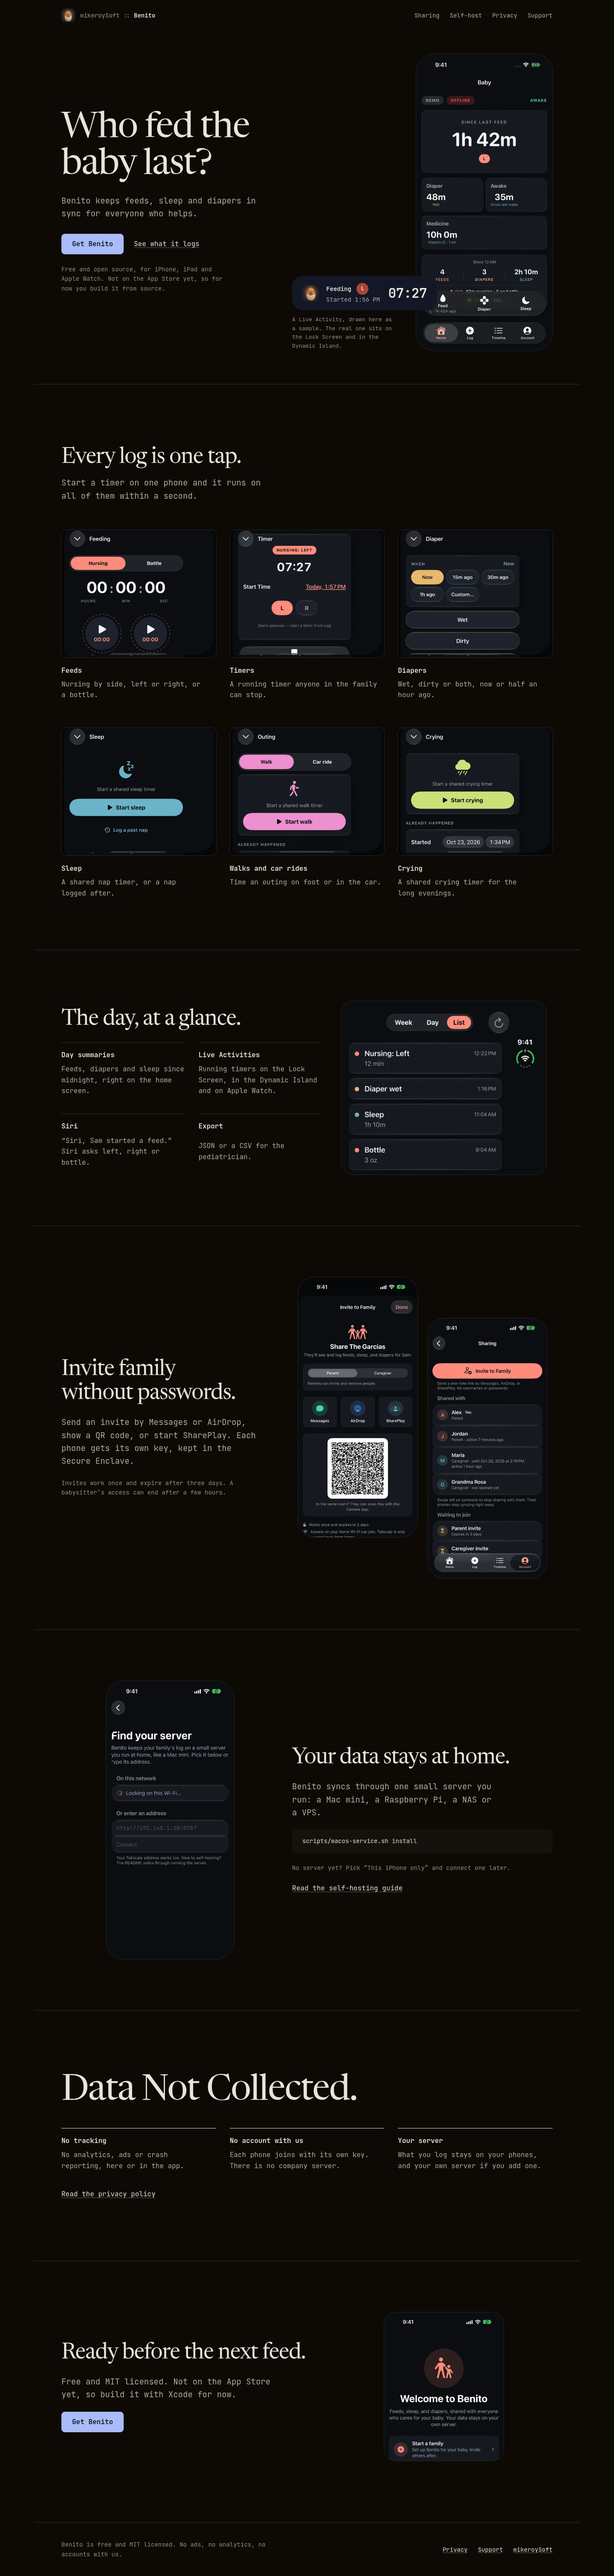
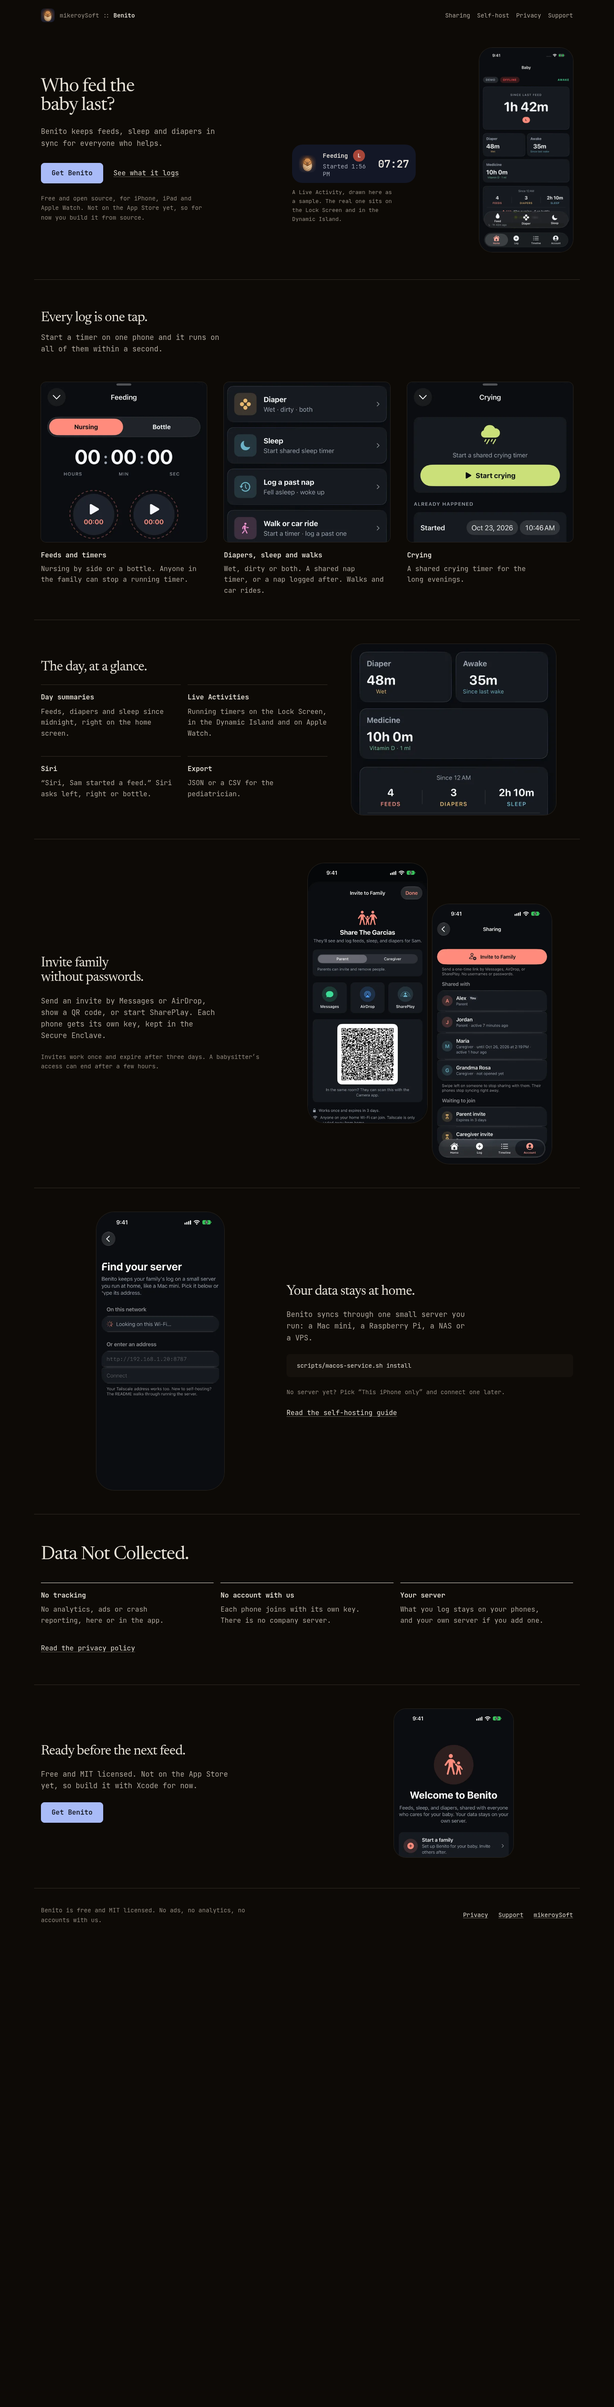
site: replace iPhone Duo screenshots with regular iPhone shots
The Duo doesn't ship until about Nov 6. The moments grid is now three
crops of regular iPhone screens (feeding sheet, Log list, crying sheet)
covering feeds/timers, diapers/sleep/walks and crying; the glance section
uses the home screen's day summary. Removes the seven Duo-derived crops
and regenerates the landing previews.

diff --git a/site/index.html b/site/index.html
@@ -61,32 +61,17 @@
   </div>
   <ul class="moments" role="list">
       <li class="moment" data-reveal style="--i:0">
-        <figure class="screen screen--crop" data-kind="product"><picture><source media="(prefers-color-scheme: dark)" srcset="assets/shots/feed-dark-560.webp 560w, assets/shots/feed-dark-840.webp 840w" sizes="(min-width: 60rem) 400px, (min-width: 40rem) 45vw, 85vw"><img src="assets/shots/feed-light-840.webp" srcset="assets/shots/feed-light-560.webp 560w, assets/shots/feed-light-840.webp 840w" sizes="(min-width: 60rem) 400px, (min-width: 40rem) 45vw, 85vw" width="1398" height="1154" alt="The feeding sheet: nursing or bottle, with a left and a right timer" loading="lazy" decoding="async"></picture></figure>
-        <h3>Feeds</h3>
-        <p>Nursing by side, left or right, or a bottle.</p>
+        <figure class="screen screen--crop" data-kind="product"><picture><source media="(prefers-color-scheme: dark)" srcset="assets/shots/feed-sheet-dark-560.webp 560w, assets/shots/feed-sheet-dark-840.webp 840w" sizes="(min-width: 60rem) 400px, (min-width: 40rem) 30vw, 85vw"><img src="assets/shots/feed-sheet-light-840.webp" srcset="assets/shots/feed-sheet-light-560.webp 560w, assets/shots/feed-sheet-light-840.webp 840w" sizes="(min-width: 60rem) 400px, (min-width: 40rem) 30vw, 85vw" width="1158" height="1114" alt="The feeding sheet: nursing or bottle, with a left and a right timer" loading="lazy" decoding="async"></picture></figure>
+        <h3>Feeds and timers</h3>
+        <p>Nursing by side or a bottle. Anyone in the family can stop a running timer.</p>
       </li>
       <li class="moment" data-reveal style="--i:1">
-        <figure class="screen screen--crop" data-kind="product"><picture><source media="(prefers-color-scheme: dark)" srcset="assets/shots/timer-dark-560.webp 560w, assets/shots/timer-dark-840.webp 840w" sizes="(min-width: 60rem) 400px, (min-width: 40rem) 45vw, 85vw"><img src="assets/shots/timer-light-840.webp" srcset="assets/shots/timer-light-560.webp 560w, assets/shots/timer-light-840.webp 840w" sizes="(min-width: 60rem) 400px, (min-width: 40rem) 45vw, 85vw" width="1398" height="1154" alt="A nursing timer at 07:27 on the left side, started at 1:56 PM" loading="lazy" decoding="async"></picture></figure>
-        <h3>Timers</h3>
-        <p>A running timer anyone in the family can stop.</p>
+        <figure class="screen screen--crop" data-kind="product"><picture><source media="(prefers-color-scheme: dark)" srcset="assets/shots/log-list-dark-560.webp 560w, assets/shots/log-list-dark-840.webp 840w" sizes="(min-width: 60rem) 400px, (min-width: 40rem) 30vw, 85vw"><img src="assets/shots/log-list-light-840.webp" srcset="assets/shots/log-list-light-560.webp 560w, assets/shots/log-list-light-840.webp 840w" sizes="(min-width: 60rem) 400px, (min-width: 40rem) 30vw, 85vw" width="1158" height="1114" alt="The Log screen: diaper, sleep, a past nap, and a walk or car ride" loading="lazy" decoding="async"></picture></figure>
+        <h3>Diapers, sleep and walks</h3>
+        <p>Wet, dirty or both. A shared nap timer, or a nap logged after. Walks and car rides.</p>
       </li>
       <li class="moment" data-reveal style="--i:2">
-        <figure class="screen screen--crop" data-kind="product"><picture><source media="(prefers-color-scheme: dark)" srcset="assets/shots/diaper-dark-560.webp 560w, assets/shots/diaper-dark-840.webp 840w" sizes="(min-width: 60rem) 400px, (min-width: 40rem) 45vw, 85vw"><img src="assets/shots/diaper-light-840.webp" srcset="assets/shots/diaper-light-560.webp 560w, assets/shots/diaper-light-840.webp 840w" sizes="(min-width: 60rem) 400px, (min-width: 40rem) 45vw, 85vw" width="1398" height="1154" alt="The diaper sheet: now, 15m, 30m or 1h ago, then wet or dirty" loading="lazy" decoding="async"></picture></figure>
-        <h3>Diapers</h3>
-        <p>Wet, dirty or both, now or half an hour ago.</p>
-      </li>
-      <li class="moment" data-reveal style="--i:3">
-        <figure class="screen screen--crop" data-kind="product"><picture><source media="(prefers-color-scheme: dark)" srcset="assets/shots/sleep-dark-560.webp 560w, assets/shots/sleep-dark-840.webp 840w" sizes="(min-width: 60rem) 400px, (min-width: 40rem) 45vw, 85vw"><img src="assets/shots/sleep-light-840.webp" srcset="assets/shots/sleep-light-560.webp 560w, assets/shots/sleep-light-840.webp 840w" sizes="(min-width: 60rem) 400px, (min-width: 40rem) 45vw, 85vw" width="1398" height="1154" alt="The sleep sheet with a start sleep button and a log past nap link" loading="lazy" decoding="async"></picture></figure>
-        <h3>Sleep</h3>
-        <p>A shared nap timer, or a nap logged after.</p>
-      </li>
-      <li class="moment" data-reveal style="--i:4">
-        <figure class="screen screen--crop" data-kind="product"><picture><source media="(prefers-color-scheme: dark)" srcset="assets/shots/walk-dark-560.webp 560w, assets/shots/walk-dark-840.webp 840w" sizes="(min-width: 60rem) 400px, (min-width: 40rem) 45vw, 85vw"><img src="assets/shots/walk-light-840.webp" srcset="assets/shots/walk-light-560.webp 560w, assets/shots/walk-light-840.webp 840w" sizes="(min-width: 60rem) 400px, (min-width: 40rem) 45vw, 85vw" width="1398" height="1154" alt="The outing sheet with walk and car ride, and a start walk button" loading="lazy" decoding="async"></picture></figure>
-        <h3>Walks and car rides</h3>
-        <p>Time an outing on foot or in the car.</p>
-      </li>
-      <li class="moment" data-reveal style="--i:5">
-        <figure class="screen screen--crop" data-kind="product"><picture><source media="(prefers-color-scheme: dark)" srcset="assets/shots/crying-dark-560.webp 560w, assets/shots/crying-dark-840.webp 840w" sizes="(min-width: 60rem) 400px, (min-width: 40rem) 45vw, 85vw"><img src="assets/shots/crying-light-840.webp" srcset="assets/shots/crying-light-560.webp 560w, assets/shots/crying-light-840.webp 840w" sizes="(min-width: 60rem) 400px, (min-width: 40rem) 45vw, 85vw" width="1398" height="1154" alt="The crying sheet with a start crying button and earlier spells below" loading="lazy" decoding="async"></picture></figure>
+        <figure class="screen screen--crop" data-kind="product"><picture><source media="(prefers-color-scheme: dark)" srcset="assets/shots/crying-sheet-dark-560.webp 560w, assets/shots/crying-sheet-dark-840.webp 840w" sizes="(min-width: 60rem) 400px, (min-width: 40rem) 30vw, 85vw"><img src="assets/shots/crying-sheet-light-840.webp" srcset="assets/shots/crying-sheet-light-560.webp 560w, assets/shots/crying-sheet-light-840.webp 840w" sizes="(min-width: 60rem) 400px, (min-width: 40rem) 30vw, 85vw" width="1158" height="1114" alt="The crying sheet with a start crying button and the times of an earlier spell" loading="lazy" decoding="async"></picture></figure>
         <h3>Crying</h3>
         <p>A shared crying timer for the long evenings.</p>
       </li>
@@ -103,7 +88,7 @@
       <div><dt>Export</dt><dd>JSON or a CSV for the pediatrician.</dd></div>
     </dl>
   </div>
-  <figure class="screen screen--wide split__visual" data-kind="product" data-reveal><picture><source media="(prefers-color-scheme: dark)" srcset="assets/shots/timeline-dark-560.webp 560w, assets/shots/timeline-dark-840.webp 840w" sizes="(min-width: 60rem) 480px, 90vw"><img src="assets/shots/timeline-light-840.webp" srcset="assets/shots/timeline-light-560.webp 560w, assets/shots/timeline-light-840.webp 840w" sizes="(min-width: 60rem) 480px, 90vw" width="1398" height="1180" alt="The timeline in list view: nursing on the left for 12 minutes, a wet diaper, a 1h 10m sleep and a 3 oz bottle" loading="lazy" decoding="async"></picture></figure>
+  <figure class="screen screen--wide split__visual" data-kind="product" data-reveal><picture><source media="(prefers-color-scheme: dark)" srcset="assets/shots/summary-dark-560.webp 560w, assets/shots/summary-dark-840.webp 840w" sizes="(min-width: 60rem) 480px, 90vw"><img src="assets/shots/summary-light-840.webp" srcset="assets/shots/summary-light-560.webp 560w, assets/shots/summary-light-840.webp 840w" sizes="(min-width: 60rem) 480px, 90vw" width="1206" height="1006" alt="The home screen’s day summary: a wet diaper 48 minutes ago, awake for 35 minutes, vitamin D 10 hours ago, and since midnight 4 feeds, 3 diapers and 2h 10m of sleep" loading="lazy" decoding="async"></picture></figure>
 </section>
 
 <section class="band band--share container" id="sharing" aria-labelledby="sharing-title">

diff --git a/site/assets/site.css b/site/assets/site.css
@@ -80,12 +80,12 @@ html:not(.js) .live__toggle { display: none; }
 .band__head { display: grid; gap: var(--space-md); }
 .band p a, .foot a { color: var(--color-ink); }
 
-/* Named moments: crops of the real sheets */
+/* Named moments: crops of the real iPhone screens */
 .moments { display: grid; grid-template-columns: repeat(3, minmax(0, 1fr)); gap: var(--space-2xl) var(--gap-columns); margin: 0; padding: 0; list-style: none; }
 .moment { display: grid; gap: var(--space-xs); align-content: start; }
 .moment .screen { margin-bottom: var(--space-sm); }
 .moment p { color: var(--color-ink-2); max-width: 45ch; }
-.screen--crop { border-radius: var(--radius-card); aspect-ratio: 1398 / 1154; }
+.screen--crop { border-radius: var(--radius-card); aspect-ratio: 1158 / 1114; }
 .screen--wide { border-radius: var(--radius-screen); }
 
 /* Text beside one screen */
@@ -134,7 +134,6 @@ html:not(.js) .live__toggle { display: none; }
 .js .hero__text > *, .js .hero__visual > * { animation: settle 560ms var(--ease-out) both; animation-delay: calc(var(--i, 0) * 70ms); }
 
 @media (max-width: 60rem) {
-  .moments { grid-template-columns: repeat(2, minmax(0, 1fr)); }
   .band--split, .band--flip, .band--share, .band--close { grid-template-columns: minmax(0, 1fr); }
   .band--flip .split__visual { order: 2; }
   .facts, .nots { grid-template-columns: minmax(0, 1fr); }
